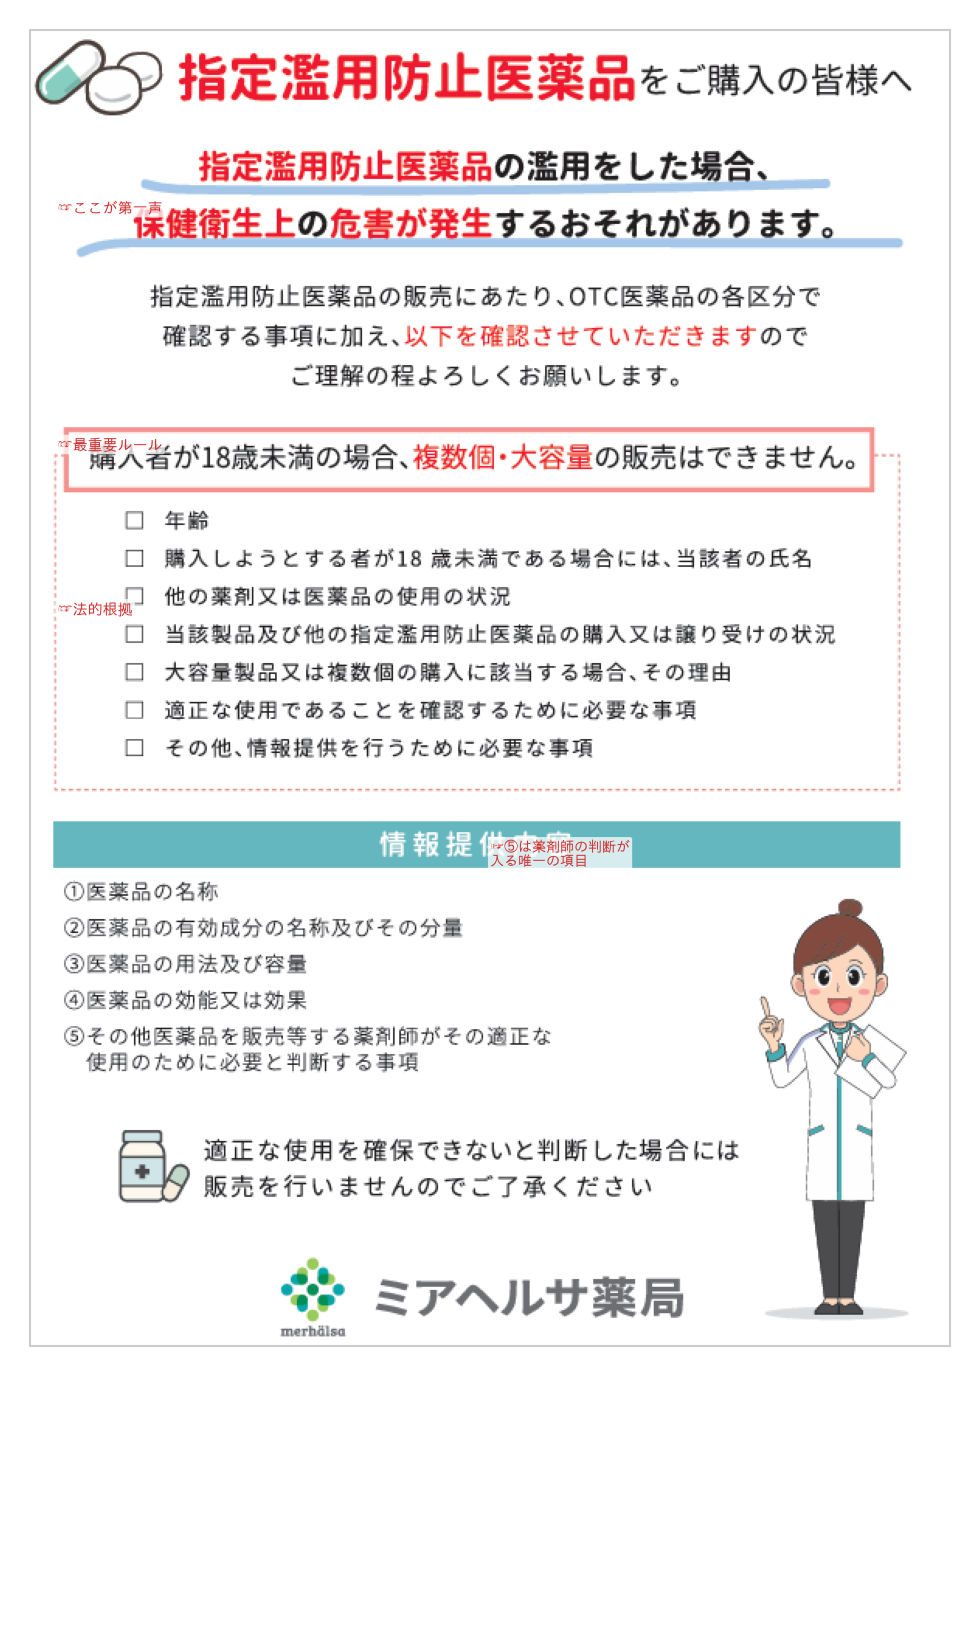
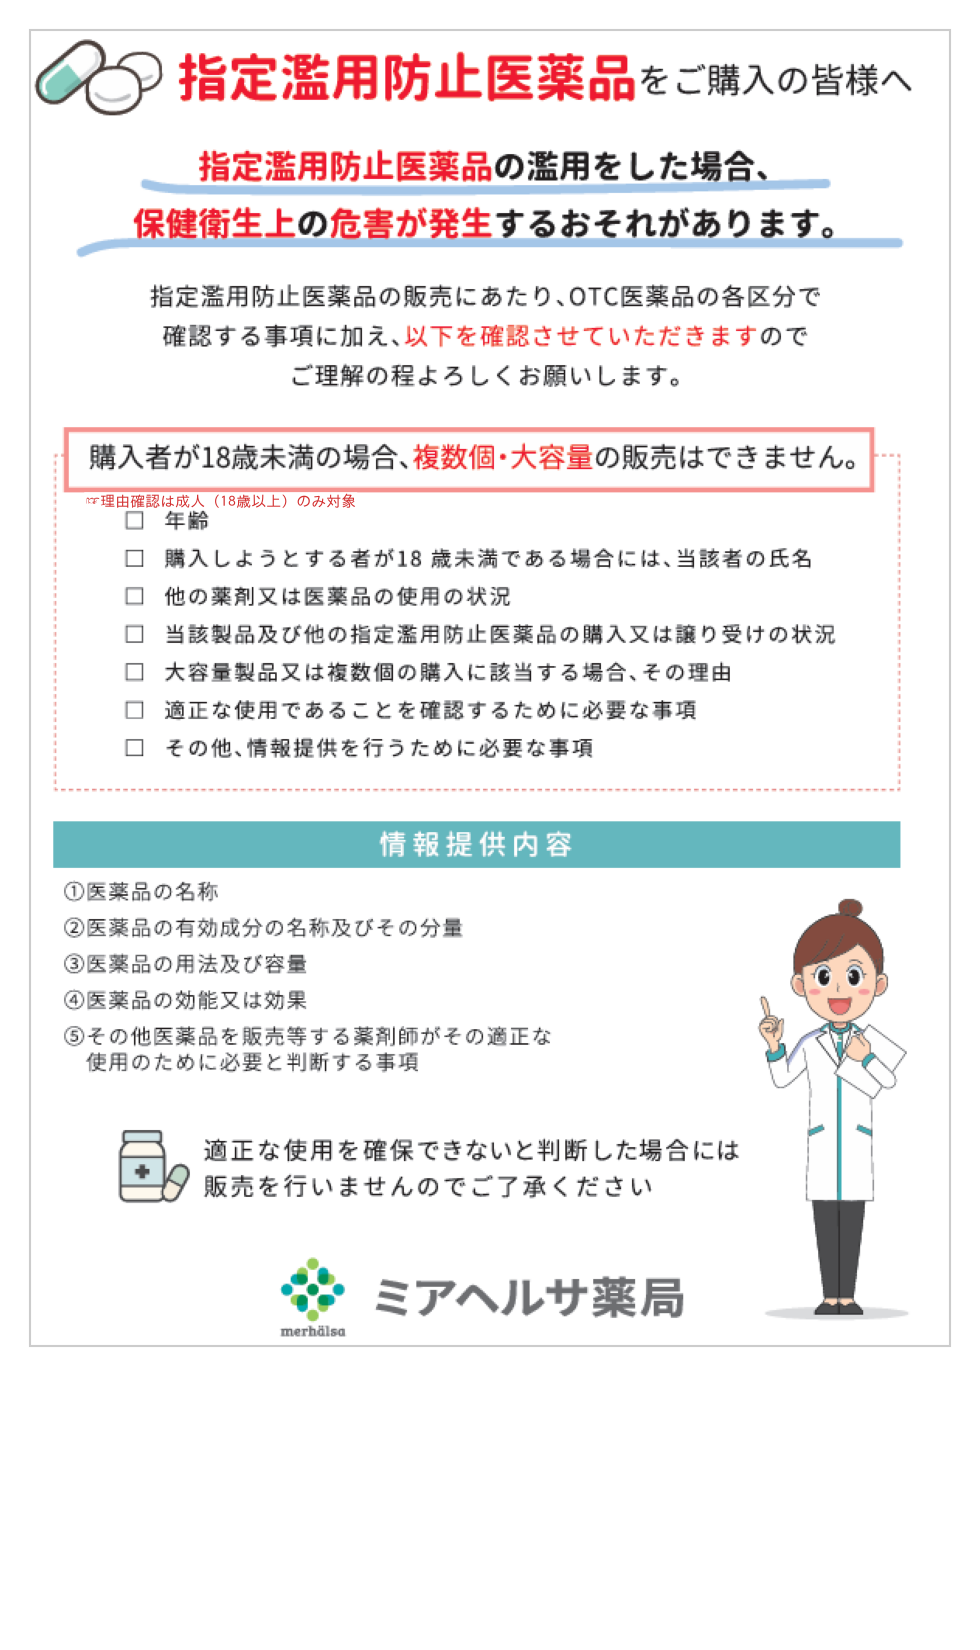
裏面デザイン試作v3更新: 注釈を1箇所に絞り、重ならず収まることを確認
「第一声」「最重要ルール」等は見れば分かるとのフィードバックを受け削除。
赤枠(複数個・大容量NG)の直下、チェックリストとの間の細い隙間に
「理由確認は成人（18歳以上）のみ対象」の注釈のみを配置。本番相当サイズで
文字の重なりなく収まることを確認済み。

diff --git a/scratch_poster1_test3.py b/scratch_poster1_test3.py
@@ -58,25 +58,14 @@ img_y0 = img_y1 - img_h
 ax.imshow(img, extent=[img_x0, img_x0 + img_w, img_y0, img_y1], zorder=2)
 ax.add_patch(patches.Rectangle((img_x0, img_y0), img_w, img_h, fill=False, edgecolor="#cccccc", linewidth=0.5, zorder=3))
 
-# --- 画像内の余白（左端）に直接書き込む ---
-# 元画像を目視して、左マージンの相対x位置(0=左端)・各注記の相対y位置を見積もる
-note_x = img_x0 + img_w * 0.03  # 画像の左端ギリギリ
-notes = [
-    (0.135, "☞ここが第一声"),
-    (0.315, "☞最重要ルール"),
-    (0.44, "☞法的根拠"),
-]
-for rel_y, text in notes:
-    ny = img_y1 - rel_y * img_h
-    ax.text(note_x, ny, text, fontsize=3.6, fontweight="bold", ha="left", va="center",
-            color=RED, fontstyle="italic", zorder=4,
-            bbox=dict(boxstyle="round,pad=0.15", facecolor="white", edgecolor="none", alpha=0.75))
-
-# 情報提供内容の右余白（イラスト左上の空きスペース）に書き込む
-ax.text(img_x0 + img_w * 0.50, img_y1 - 0.615 * img_h,
-        "☞⑤は薬剤師の判断が\n入る唯一の項目", fontsize=3.4, fontweight="bold", ha="left", va="top",
+# --- 赤枠とチェックリストの間の細い隙間に、注釈を1つだけ書き込む ---
+# 「複数個・大容量の理由を聞けるのは18歳以上が前提」という、赤枠の文言だけでは
+# 伝わりにくい点を補足する。他の箇所（第一声・法的根拠等）は見れば分かるため省略。
+note_y = img_y1 - 0.358 * img_h
+ax.text(img_x0 + img_w * 0.06, note_y, "☞理由確認は成人（18歳以上）のみ対象",
+        fontsize=3.5, fontweight="bold", ha="left", va="center",
         color=RED, fontstyle="italic", zorder=4,
-        bbox=dict(boxstyle="round,pad=0.15", facecolor="white", edgecolor="none", alpha=0.75))
+        bbox=dict(boxstyle="round,pad=0.1", facecolor="white", edgecolor="none", alpha=0.85))
 
 plt.close(_meas_fig)
 fig.savefig("scratch_poster1_test3.png", dpi=300)
